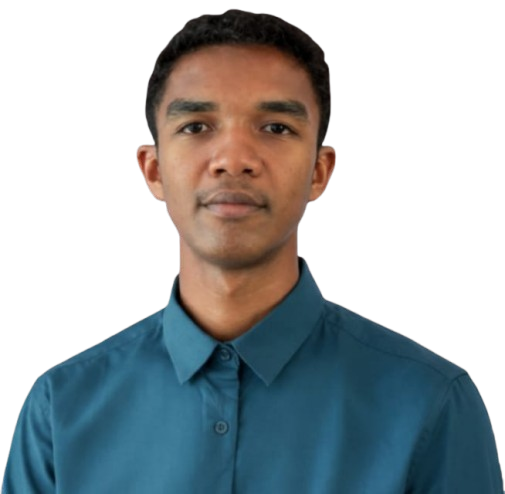
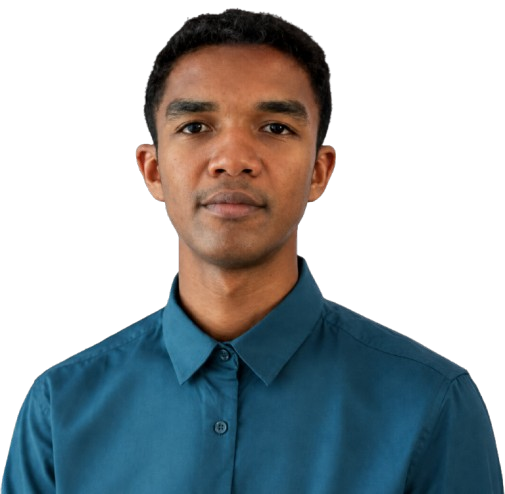
update profile image and navigation bar, pdf download ok!

diff --git a/src/components/layout/Header.tsx b/src/components/layout/Header.tsx
@@ -1,15 +1,18 @@
 import { useEffect, useState, useRef } from "react"
-import { useTranslation } from "react-i18next"
+import { Trans, useTranslation } from "react-i18next"
 import { LuMenu, LuX } from "react-icons/lu"
+import LanguageSwitcher from "../ui/LanguageSwitcher"
+
+type NavLink = 'home' | 'about' | 'skills' | 'services' | 'portfolio' | 'contact'
+
+const navLinks: NavLink[] = ['home', 'about', 'skills', 'services', 'portfolio', 'contact']
 
 const Header = () => {
   const { t } = useTranslation('common')
-  const [activeSection, setActiveSection] = useState('home')
+  const [activeSection, setActiveSection] = useState<NavLink>('home')
   const [showMenu, setShowMenu] = useState(false)
 
   const menuRef = useRef<HTMLDivElement>(null)
-
-  const navLinks = ['home', 'about', 'skills', 'services', 'portfolio', 'contact']
 
   // Detect active section
   useEffect(() => {
@@ -17,7 +20,7 @@ const Header = () => {
       (entries) => {
         entries.forEach((entry) => {
           if (entry.isIntersecting) {
-            setActiveSection(entry.target.id)
+            setActiveSection(entry.target.id as NavLink)
           }
         })
       },
@@ -37,26 +40,32 @@ const Header = () => {
 
   useEffect(() => {
     const handleClickOutside = (event: MouseEvent) => {
-      // Vérifie si le clic est en dehors du menu
       if (menuRef.current && !menuRef.current.contains(event.target as Node)) {
+        setShowMenu(false)
+      }
+    }
+
+    const handleEscape = (event: KeyboardEvent) => {
+      if (event.key === 'Escape') {
         setShowMenu(false)
       }
     }
 
     if (showMenu) {
       document.addEventListener('mousedown', handleClickOutside)
+      document.addEventListener('keydown', handleEscape)
     }
 
-    // Cleanup
     return () => {
       document.removeEventListener('mousedown', handleClickOutside)
+      document.removeEventListener('keydown', handleEscape)
     }
   }, [showMenu])
 
-  const handleNavClick = (link: string) => {
+  const handleNavClick = (link: NavLink) => {
     const element = document.getElementById(link)
     element?.scrollIntoView({ behavior: 'smooth' })
-    setShowMenu(false) // Ferme le menu après navigation
+    setShowMenu(false)
   }
 
   const toggleMenu = () => {
@@ -64,57 +73,101 @@ const Header = () => {
   }
 
   return (
-    <nav ref={menuRef} className="fixed max-w-screen max-h-15 z-50 bg-transparent">
-      {/* Menu hamburger */}
-      <button
-        onClick={toggleMenu}
-        className="md:hidden fixed top-4 left-4 text-4xl p-2  bg-secondary shadow-lg z-50 rounded-full  cursor-pointer hover:bg-neutral-800 transition-colors"
-        aria-label="Toggle menu"
-      >
-        {showMenu ? <LuX className="text-2xl" /> : <LuMenu className="text-2xl" />}
-      </button>
+    <header className="fixed inset-x-0 top-0 z-50">
+      <div className="mx-auto flex max-w-7xl items-center justify-between gap-4 border-b border-neutral-800 px-4 py-4 backdrop-blur-xl shadow-xl shadow-black/10">
+        <div className="flex items-center gap-4">
+          <div className="text-lg font-semibold tracking-tight text-blue-200">
+            <Trans
+              i18nKey="name"
+              components={{ b: <b className="font-bold" /> }}
+            />
+          </div>
+        </div>
 
-
-      {/* Menu */}
-      <ul
-        className={`md:flex w-screen flex-col md:flex-row justify-center gap-2 text-neutral-200 font-light bg-secondary top-0 left-0 right-0 pt-16 md:pt-0 shadow-lg md:shadow-none ${showMenu ? 'menu-enter' : 'menu-exit md:transform md:translate-y-full'} `}
-      >
-        <div className="top-6 left-[50%] transform -translate-x-[50%] md:translate-x-0 fixed md:top-5 md:left-45" dangerouslySetInnerHTML={{__html:t('name')}} />
-        {navLinks.map((link) => (
-          <li
-            key={link}
-          >
+        <nav className="hidden items-center gap-2 md:flex">
+          {navLinks.map((link) => (
             <button
+              key={link}
+              type="button"
               onClick={() => handleNavClick(link)}
-              className={`
-                relative inline-block py-5 px-4 w-full md:w-fit 
-                hover:text-blue-200 transition-all duration-200 
-                ${activeSection === link ? 'text-blue-200' : ''} 
-                cursor-pointer
-              `}
+              aria-current={activeSection === link ? 'page' : undefined}
+              className={`rounded-full px-4 py-2 text-sm transition-colors duration-200 ${
+                activeSection === link
+                  ? 'bg-blue-500 text-white'
+                  : 'text-neutral-300 hover:bg-neutral-800 hover:text-white'
+              }`}
             >
-              <span
-                className={`
-                  absolute top-0 left-0 right-0 h-1 
-                  bg-blue-400 rounded-b-md transition-all 
-                  ${activeSection === link ? 'opacity-100' : 'opacity-0'}
-                `}
-              />
               {t(`nav.${link}`)}
             </button>
-          </li>
-        ))}
-      </ul>
+          ))}
+        </nav>
 
-      {/* Overlay pour mobile (optionnel mais recommandé) */}
-      {showMenu && (
+        <div className="hidden items-center gap-3 md:flex">
+          <LanguageSwitcher />
+        </div>
+
+        <button
+          type="button"
+          className="flex h-12 w-12 items-center justify-center rounded-full border border-neutral-800 bg-neutral-900 text-2xl text-white transition-colors hover:bg-neutral-800 md:hidden"
+          onClick={toggleMenu}
+          aria-label={showMenu ? 'Fermer le menu' : 'Ouvrir le menu'}
+          aria-expanded={showMenu}
+        >
+          {showMenu ? <LuX className="text-xl" /> : <LuMenu className="text-xl" />}
+        </button>
+      </div>
+
+      <div className={`fixed inset-0 z-40 md:hidden ${showMenu ? 'visible' : 'pointer-events-none'}`}>
         <div
-          className="md:hidden fixed inset-0 bg-black/50 -z-10"
+          className={`absolute inset-0 bg-black/50 transition-opacity ${showMenu ? 'opacity-100' : 'opacity-0'}`}
           onClick={() => setShowMenu(false)}
         />
-      )}
 
-    </nav>
+        <aside
+          ref={menuRef}
+          className={`absolute right-0 top-0 flex h-full w-full max-w-[85vw] flex-col justify-between bg-neutral-950 p-6 shadow-2xl shadow-black/40 transition-transform duration-300 ${
+            showMenu ? 'translate-x-0' : 'translate-x-full'
+          }`}
+        >
+          <div>
+            <div className="mb-8 flex items-center justify-between">
+              <div className="text-xl font-semibold text-blue-200">{t('nav.home')}</div>
+              <button
+                type="button"
+                onClick={() => setShowMenu(false)}
+                className="flex h-10 w-10 items-center justify-center rounded-full bg-neutral-900 text-white transition hover:bg-neutral-800"
+                aria-label="Fermer le menu"
+              >
+                <LuX className="text-xl" />
+              </button>
+            </div>
+
+            <nav className="space-y-3">
+              {navLinks.map((link) => (
+                <button
+                  key={link}
+                  type="button"
+                  onClick={() => handleNavClick(link)}
+                  aria-current={activeSection === link ? 'page' : undefined}
+                  className={`w-full rounded-2xl px-4 py-4 text-left text-base font-medium transition-all duration-200 ${
+                    activeSection === link
+                      ? 'bg-blue-500 text-white'
+                      : 'bg-neutral-900 text-neutral-300 hover:bg-neutral-800 hover:text-white'
+                  }`}
+                >
+                  {t(`nav.${link}`)}
+                </button>
+              ))}
+            </nav>
+          </div>
+
+          <div className="mt-8 flex flex-col gap-4">
+            <LanguageSwitcher className="justify-center" />
+            <p className="text-sm leading-relaxed text-neutral-400">{t('footer.quickLinks')}</p>
+          </div>
+        </aside>
+      </div>
+    </header>
   )
 }
 

diff --git a/src/components/sections/Home.tsx b/src/components/sections/Home.tsx
@@ -1,61 +1,51 @@
-import { useTranslation } from "react-i18next";
-import Profile from "../../assets/images/profile.png";
+import { useMemo } from "react"
+import { useTranslation } from "react-i18next"
+import Profile from "../../assets/images/profile.png"
 
 const Home = () => {
-  const { t } = useTranslation(['home', 'common']);
+  const { i18n, t } = useTranslation(['home', 'common'])
+
+  const currentLanguage = useMemo(() => {
+    return i18n.resolvedLanguage?.startsWith('fr') ? 'fr' : 'en'
+  }, [i18n.resolvedLanguage])
+
+  const downloadUrl = useMemo(() => {
+    return currentLanguage === 'fr'
+      ? '/documents/cv_samsonjohannestahiniavo_fr.pdf'
+      : '/documents/cv_samsonjohannestahiniavo_en.pdf'
+  }, [currentLanguage])
 
   const scrollTo = (id: string) => {
-    document.getElementById(id)?.scrollIntoView({ behavior: 'smooth' });
+    document.getElementById(id)?.scrollIntoView({ behavior: 'smooth' })
   }
+
   return (
     <section
       id="home"
       className="flex items-center min-h-screen pt-25 bg-secondary"
     >
-      <div className="flex flex-col items-center md:flex-row md:items-start md:justify-between gap-10 max-w-5xl mx-auto px-4 ">
+      <div className="flex flex-col items-center md:flex-row md:items-start md:justify-between gap-10 max-w-5xl mx-auto px-4">
         <div className="flex flex-col md:items-center">
-          <div className="w-full text-center md:text-left">{t('home:greeting')} {t('home:aka')}</div>
-          <div className="max-w-xl text-center md:text-left leading-tight text-blue-300 text-5xl md:text-7xl font-bold">{t('home:role')}</div>
-          <div className="flex items-center justify-center md:justify-start w-full gap-5">
+          <div className="w-full text-center md:text-left text-lg text-neutral-200 mb-4">{t('home:greeting')} {t('home:aka')}</div>
+          <div className="max-w-xl text-center md:text-left leading-tight text-blue-300 text-5xl md:text-7xl font-bold mb-8">{t('home:role')}</div>
+          <div className="flex flex-col items-center justify-center gap-4 md:flex-row md:justify-start w-full">
             <button
               onClick={() => scrollTo('contact')}
-              className="relative inline-block font-semibold cursor-pointer pb-2 pt-4
-                after:content-['']
-                after:absolute
-                after:left-1
-                after:right-1
-                after:bottom-0
-                after:h-1
-                after:bg-blue-200
-                after:rounded-full
-                after:transition-all 
-                after:duration-500
-                hover:after:right-full
-                hover:primary-color"
+              className="rounded-full border border-blue-500 bg-blue-500/10 px-6 py-3 text-sm font-semibold text-blue-200 transition hover:bg-blue-500 hover:text-white"
             >
               {t('common:cta.contact')}
             </button>
-            <button
-              className="relative inline-block font-semibold cursor-pointer pb-2 pt-4
-                after:content-['']
-                after:absolute
-                after:left-1
-                after:right-1
-                after:bottom-0
-                after:h-1
-                after:bg-blue-200
-                after:rounded-full
-                after:transition-all 
-                after:duration-500
-                hover:after:right-full
-                hover:primary-color"
+            <a
+              href={downloadUrl}
+              download
+              className="rounded-full border border-neutral-700 bg-neutral-900/80 px-6 py-3 text-sm font-semibold text-neutral-200 transition hover:border-blue-500 hover:bg-neutral-800 hover:text-white"
             >
               {t('common:cta.downloadCV')}
-            </button>
+            </a>
           </div>
         </div>
         <div className="relative">
-          <img src={Profile} alt="Profile" className="w-75 h-auto md:w-140 shadow md:h-auto rounded-4xl" />
+          <img src={Profile} alt="Profile" className="w-72 h-auto md:w-96 rounded-4xl" />
         </div>
       </div>
     </section>

diff --git a/src/components/ui/LanguageSwitcher.tsx b/src/components/ui/LanguageSwitcher.tsx
@@ -1,0 +1,47 @@
+import { useTranslation } from 'react-i18next'
+
+type LanguageCode = 'fr' | 'en'
+
+type LanguageSwitcherProps = {
+  className?: string
+}
+
+const languages: Array<{ code: LanguageCode; label: string }> = [
+  { code: 'fr', label: 'FR' },
+  { code: 'en', label: 'EN' },
+]
+
+const LanguageSwitcher = ({ className = '' }: LanguageSwitcherProps) => {
+  const { i18n } = useTranslation()
+
+  const currentLanguage = i18n.resolvedLanguage?.startsWith('fr') ? 'fr' : 'en'
+
+  const changeLanguage = (lang: LanguageCode) => {
+    if (currentLanguage !== lang) {
+      i18n.changeLanguage(lang)
+    }
+  }
+
+  return (
+    <div className={`inline-flex items-center rounded-full bg-neutral-900/90 border border-neutral-800 p-1 shadow-lg ${className}`}>
+      {languages.map((language) => (
+        <button
+          key={language.code}
+          type="button"
+          onClick={() => changeLanguage(language.code)}
+          className={`px-3 py-2 rounded-full text-sm font-semibold transition-colors focus:outline-none focus:ring-2 focus:ring-blue-400 ${
+            currentLanguage === language.code
+              ? 'bg-blue-500 text-white'
+              : 'text-neutral-300 hover:bg-neutral-800'
+          }`}
+          aria-pressed={currentLanguage === language.code}
+          aria-label={language.code === 'fr' ? 'Français' : 'English'}
+        >
+          {language.label}
+        </button>
+      ))}
+    </div>
+  )
+}
+
+export default LanguageSwitcher

diff --git a/src/components/sections/About.tsx b/src/components/sections/About.tsx
@@ -24,7 +24,7 @@ const About = () => {
     >
       <div className="max-w-5xl mx-auto px-4">
         <h1 className="text-4xl md:text-5xl font-bold text-primary mb-4">{t('title')}</h1>
-        <p className="text-neutral-300 mb-12">{t('contact:subtitle')}</p>
+        <p className="text-neutral-300 mb-12">{t('subtitle')}</p>
 
         <div className="space-y-4 my-8">
           {descriptions.map((paragraph, index) => (

diff --git a/index.html b/index.html
@@ -2,9 +2,9 @@
 <html lang="en">
   <head>
     <meta charset="UTF-8" />
-    <link rel="icon" type="image/svg+xml" href="/favicon.svg" />
+    <link rel="icon" href="/favicon.ico" />
     <meta name="viewport" content="width=device-width, initial-scale=1.0" />
-    <title>tsjportfolio</title>
+    <title>samsonjohannestahiniavo</title>
   </head>
   <body>
     <div id="root"></div>

diff --git a/src/config/emailjsConfig.ts b/src/config/emailjsConfig.ts
@@ -1,5 +1,5 @@
 export const emailjsConfig = {
-  serviceId: 'service_a6g7b1m', 
-  templateId: 'template_g94zmsv',
-  publicKey: '1bBYHx7qYK96LLhti',
+  serviceId: import.meta.env.VITE_EMAILJS_SERVICE_ID ?? 'service_a6g7b1m',
+  templateId: import.meta.env.VITE_EMAILJS_TEMPLATE_ID ?? 'template_g94zmsv',
+  publicKey: import.meta.env.VITE_EMAILJS_PUBLIC_KEY ?? '1bBYHx7qYK96LLhti',
 }

diff --git a/src/components/layout/Footer.tsx b/src/components/layout/Footer.tsx
@@ -1,5 +1,4 @@
 import { useTranslation } from 'react-i18next'
-import { FaFacebook, FaWhatsapp, FaLinkedin, FaGithub } from 'react-icons/fa'
 import { HiOutlineArrowUp } from 'react-icons/hi2'
 
 const Footer = () => {
